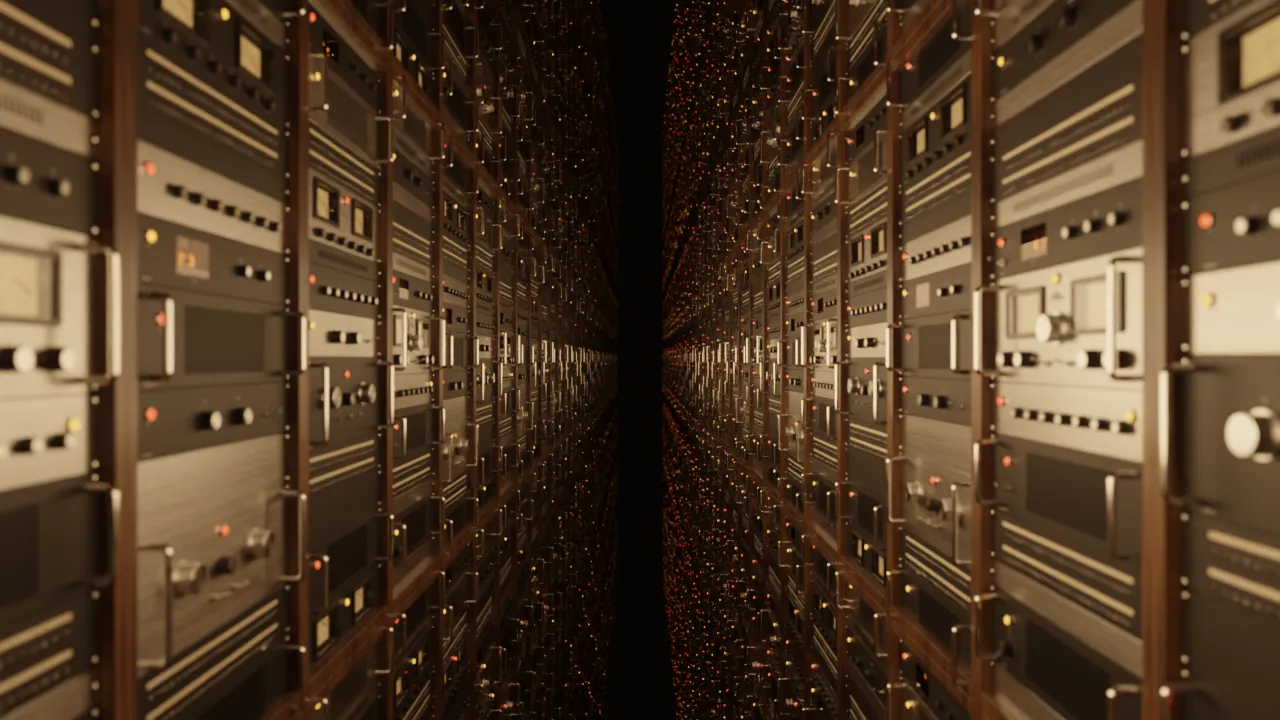
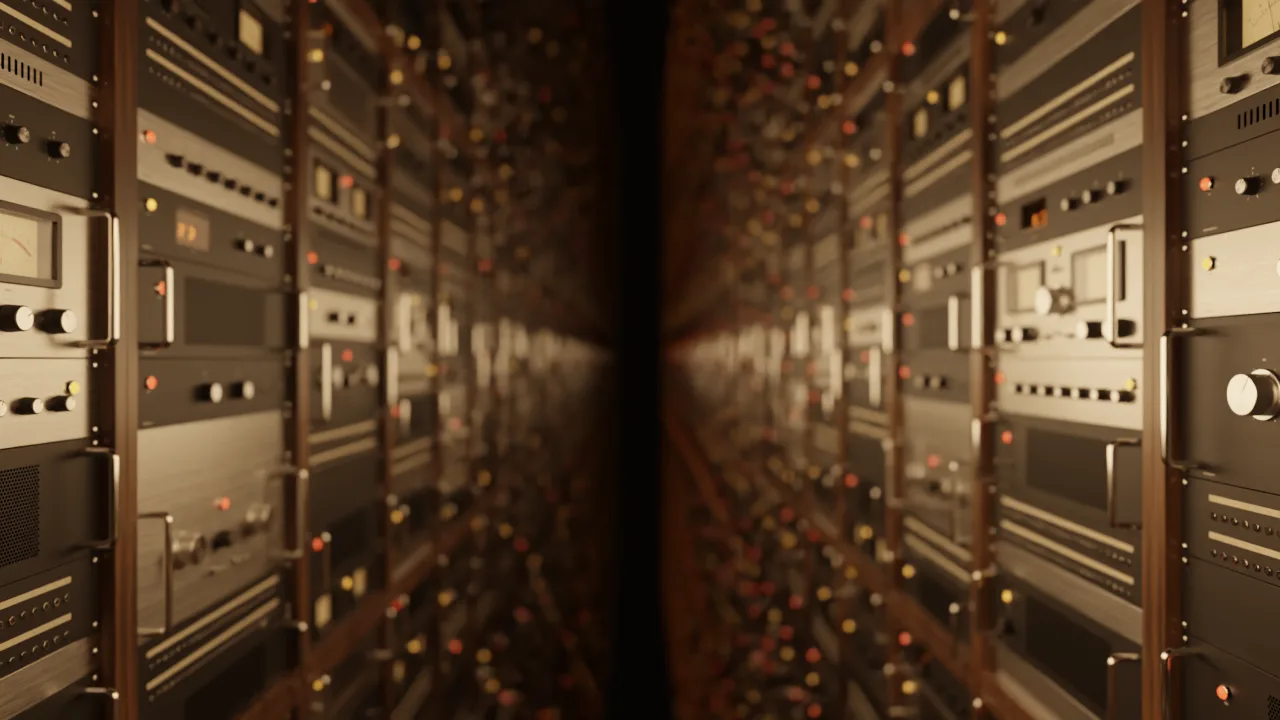
A stainless divider, focus on the front, and a slighter pedestal
A wide brushed steel strip now separates the two halves of the page - the
splash above it, the corridor and the writing below - with the wordmark
small and centred on it in black paint. It is rendered rather than drawn,
out of the panel's own steel, because a CSS gradient with a highlight on it
reads as a CSS gradient with a highlight on it. The splash handover is keyed
to the strip: the moment the steel reaches the top of the window, the splash
goes.

Two things had to be fixed to get it. It came out with I . SPACE and
DAMPING across it, because brushed_plate maps the panel's engraving from
object coordinates and a bar at the origin sits exactly where the lettering
falls - there is an engrave=False flag now. And the first rig aimed its
lights at the bar's centre, so it lit the centre: 0.91 in the middle against
0.60 at the ends, which on a strip stretched across a browser reads as a
mistake. The lights lie parallel to the bar now and are much longer than it,
so falloff along its length is nothing - 0.71 / 0.65 / 0.71.

Focus is pulled right to the front, f/1.4 at 0.80 m, so only the faceplates
going past at the edges are sharp and everything beyond falls into bokeh.
That is the right way round for a backdrop: a deep image competes with the
writing, a shallow one is a texture with two sharp edges, and the sharp part
is where there is no text anyway.

And the pedestal drops to 0.11 m over the whole page - about 4 mm a frame,
[…]

diff --git a/nice-reverb/index.html b/nice-reverb/index.html
@@ -178,10 +178,27 @@
        enough that body text still sits at a proper contrast ratio against the
        brightest thing the corridor ever puts behind it, which is a rack lamp
        rather than a lit floor - the render is graded for that. */
+    /* The stainless strip that divides the two halves of the page: the splash
+       above it, the corridor and the writing below. A real rendered bar of the
+       panel's own brushed steel with the wordmark in black paint on it - a CSS
+       gradient with a highlight reads as a CSS gradient with a highlight.
+
+       It is 2400 x 130 and sits at its own aspect ratio, so the brushing never
+       stretches; the height is clamped so it stays a strip on a phone and does
+       not become a slab on a wide monitor. */
+    .divider {
+      position: relative; z-index: 2;
+      width: 100%;
+      height: clamp(34px, 4.4vw, 74px);
+      background: #9a968f url("img/divider.webp") center / 100% 100% no-repeat;
+      box-shadow: 0 10px 34px rgba(0, 0, 0, 0.75),
+                  inset 0 1px 0 rgba(255, 255, 255, 0.22),
+                  inset 0 -1px 0 rgba(0, 0, 0, 0.45);
+    }
+
     .doc {
       position: relative; z-index: 1;
       background: rgba(14, 14, 16, 0.74);
-      border-top: 1px solid rgba(255, 181, 116, 0.18);
       box-shadow: 0 -40px 90px rgba(0, 0, 0, 0.9);
     }
     .doc main { padding-top: 3.4rem; padding-bottom: 4rem; }
@@ -245,6 +262,8 @@
     <p class="soon"><a href="https://wainhouse.gumroad.com/l/nice-reverb-beta">Join the beta</a></p>
     <a class="scroll-cue" href="#what-it-is">Scroll</a>
   </div>
+
+  <div class="divider" aria-hidden="true"></div>
 
   <div class="doc">
   <main>

diff --git a/nice-reverb/corridor.js b/nice-reverb/corridor.js
@@ -80,6 +80,7 @@ if (wrap) {
   }
 
   const doc = document.querySelector(".doc");
+  const divider = document.querySelector(".divider");
   const stage = document.getElementById("stage");
 
   let ticking = false;
@@ -95,7 +96,10 @@ if (wrap) {
     // version cross-faded the two as you scrolled and you could see straight
     // through the racks into the splash, which looked like a mistake because
     // it was one.
-    if (stage) stage.style.visibility = top <= 0 ? "hidden" : "visible";
+    // The stainless strip is the boundary, so it is what decides the swap:
+    // the splash goes the moment the strip reaches the top of the window.
+    const edge = divider ? divider.getBoundingClientRect().bottom : top;
+    if (stage) stage.style.visibility = edge <= 0 ? "hidden" : "visible";
 
     // The move is a pedestal, not a dolly: over the whole scroll the camera
     // rises about a third of a metre. It is meant to be barely perceptible -
